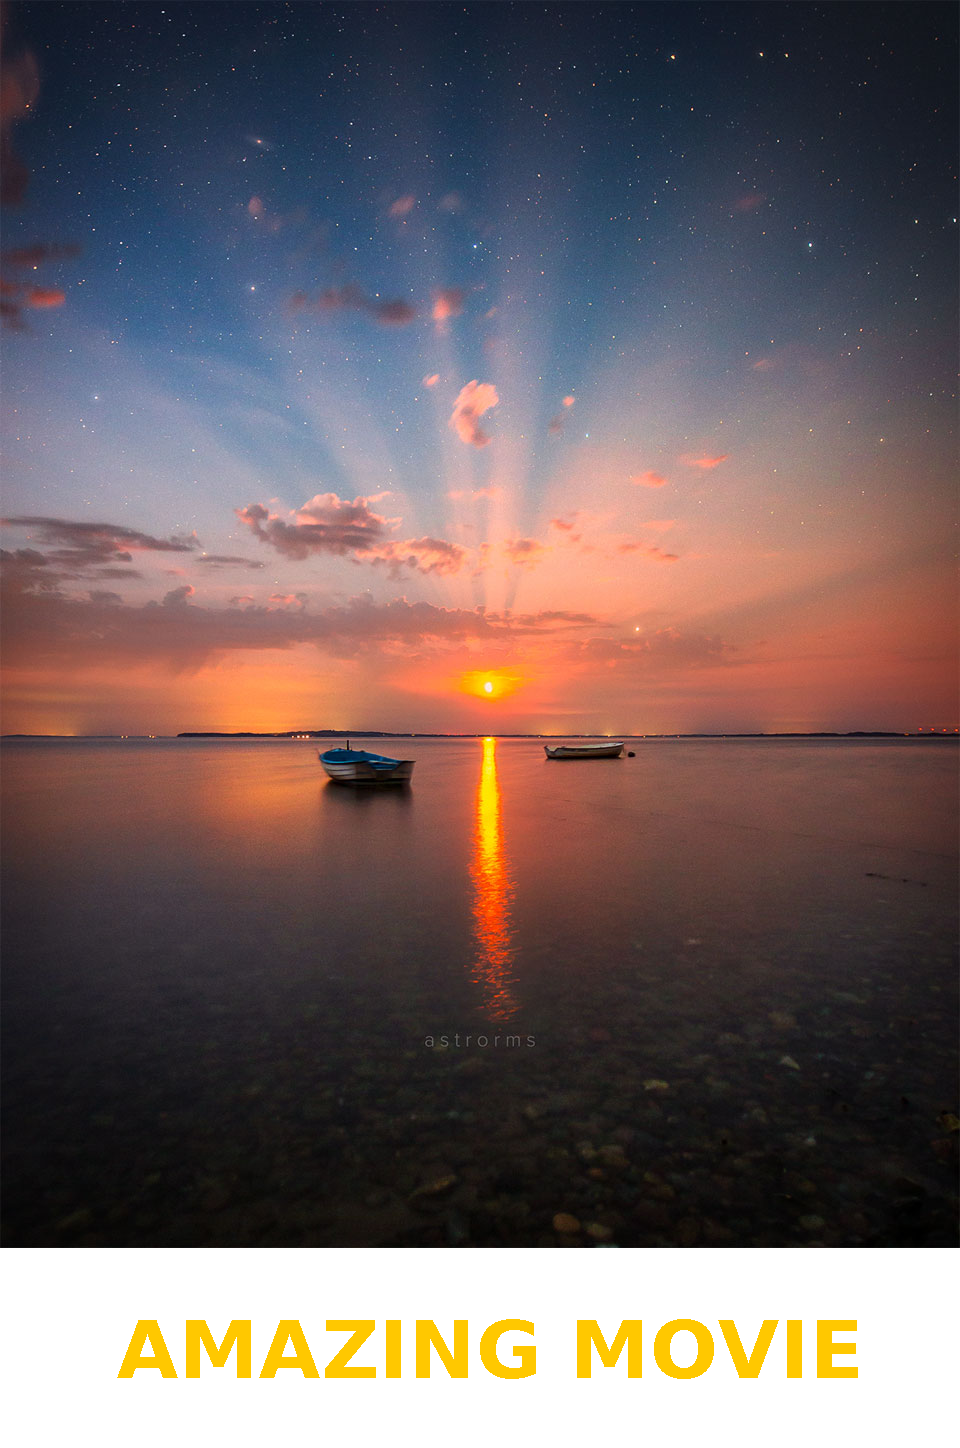
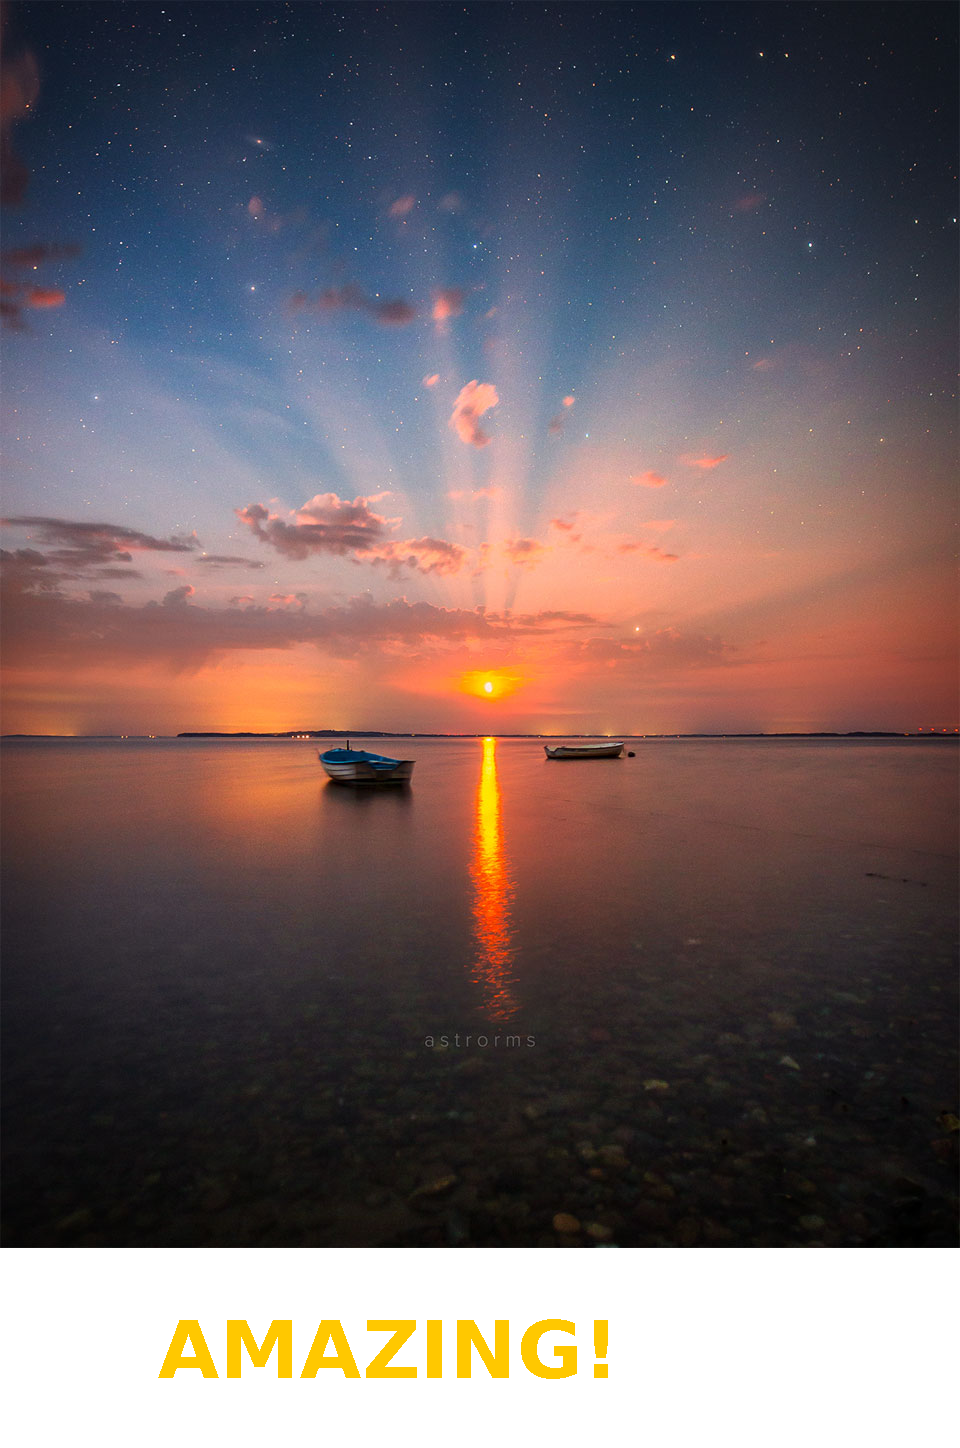
refactor: main class creating the classes clientHttp and content

Changed region(s): [[0.125, 0.9012, 0.9062, 0.9634]]

diff --git a/src/App.java b/src/App.java
@@ -1,10 +1,5 @@
 import java.io.InputStream;
-import java.net.URI;
 import java.net.URL;
-import java.net.http.HttpClient;
-import java.net.http.HttpRequest;
-import java.net.http.HttpResponse;
-import java.net.http.HttpResponse.BodyHandlers;
 import java.util.List;
 import java.util.Map;
 
@@ -12,36 +7,34 @@ public class App {
   public static void main(String[] args) throws Exception {
     // 1. Make the HTTP connection and search the top 250 movies
     String url = "https://api.nasa.gov/planetary/apod?api_key=PxAAeVqwaGJcCy86ut8ENDOZHqUwOPCbUoPyT4El&start_date=2022-07-25&end_date=2022-07-29";
-    URI uri = URI.create(url);
-    var client = HttpClient.newHttpClient();
-    var request = HttpRequest.newBuilder(uri).GET().build();
-    HttpResponse<String> response = client.send(request, BodyHandlers.ofString());
-    String body = response.body();
+
+    ClientHttp clientHttp = new ClientHttp();
+    String json = clientHttp.getData(url);
 
     // 2. Extract only the data that matters (title, poster, rating)
     var parser = new JsonParser();
-    List<Map<String, String>> movieList = parser.parse(body);
+    List<Map<String, String>> contentList = parser.parse(json);
 
     // 3. View and manipulate the data
     var generate = new StickerFactory();
 
-    for (int i = 0; i < movieList.size(); i++) {
-      Map<String, String> movie = movieList.get(i);
+    for (int i = 0; i < contentList.size(); i++) {
+      Map<String, String> content = contentList.get(i);
 
-      String movieTitle = movie.get("title");
-      String movieUrl = movie.get("url");
+      String contentTitle = content.get("title");
+      String contentUrl = content.get("url");
 
-      if (movieUrl.indexOf("https://www.youtube.com/") != -1) {
+      if (contentUrl.indexOf("https://www.youtube.com/") != -1) {
         continue;
       }
 
-      InputStream inputStream = new URL(movieUrl).openStream();
-      String fileName = movieTitle + " - Sticker.png";
+      InputStream inputStream = new URL(contentUrl).openStream();
+      String fileName = contentTitle + " - Sticker.png";
 
       generate.createSticker(inputStream, fileName);
 
-      System.out.println(movieTitle);
-      System.out.println(movieUrl);
+      System.out.println(contentTitle);
+      System.out.println(contentUrl);
       System.out.println();
     }
   }

diff --git a/src/ClientHttp.java b/src/ClientHttp.java
@@ -1,0 +1,22 @@
+import java.io.IOException;
+import java.net.URI;
+import java.net.http.HttpClient;
+import java.net.http.HttpRequest;
+import java.net.http.HttpResponse;
+import java.net.http.HttpResponse.BodyHandlers;
+
+public class ClientHttp {
+  public String getData(String url) {
+    try {
+      URI uri = URI.create(url);
+      var client = HttpClient.newHttpClient();
+      var request = HttpRequest.newBuilder(uri).GET().build();
+      HttpResponse<String> response = client.send(request, BodyHandlers.ofString());
+      String body = response.body();
+
+      return body;
+    } catch (IOException | InterruptedException ex) {
+      throw new RuntimeException(ex);
+    }
+  }
+}

diff --git a/src/StickerFactory.java b/src/StickerFactory.java
@@ -28,7 +28,7 @@ public class StickerFactory {
 
     // 5. Write a sentence on the new image
     // 5.1 Calculation to center text
-    var stickerText = "AMAZING MOVIE";
+    var stickerText = "AMAZING!";
     var widthCenter = originalWidth / 2;
     var textCenter = stickerText.length() / 2;
     var centerDiff = widthCenter - textCenter;

diff --git a/src/Content.java b/src/Content.java
@@ -1,0 +1,17 @@
+public class Content {
+  private final String title;
+  private final String imageUrl;
+
+  public Content(String title, String imageUrl) {
+    this.title = title;
+    this.imageUrl = imageUrl;
+  }
+
+  public String getTitle() {
+    return title;
+  }
+
+  public String getImageUrl() {
+    return imageUrl;
+  }
+}
